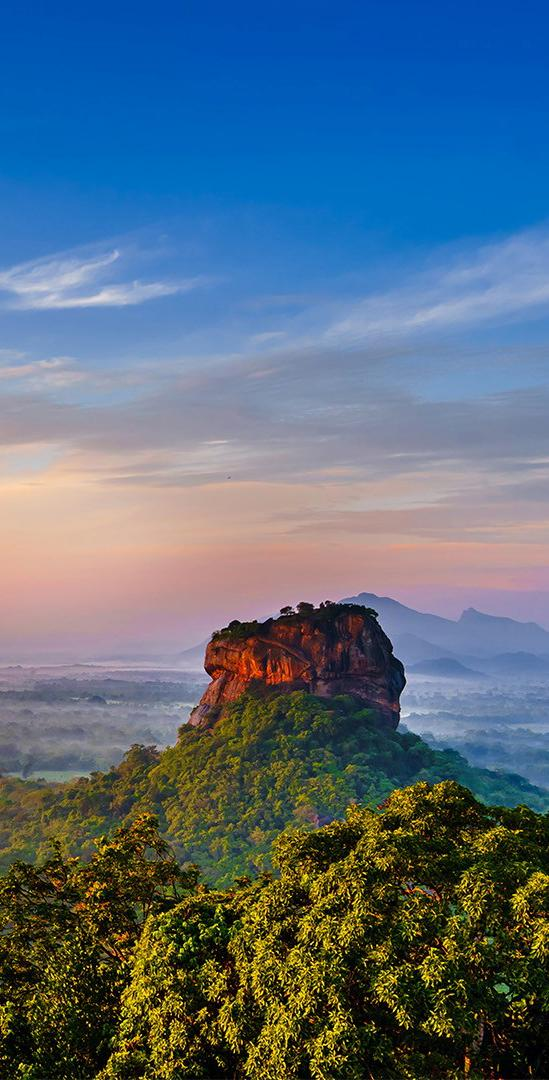
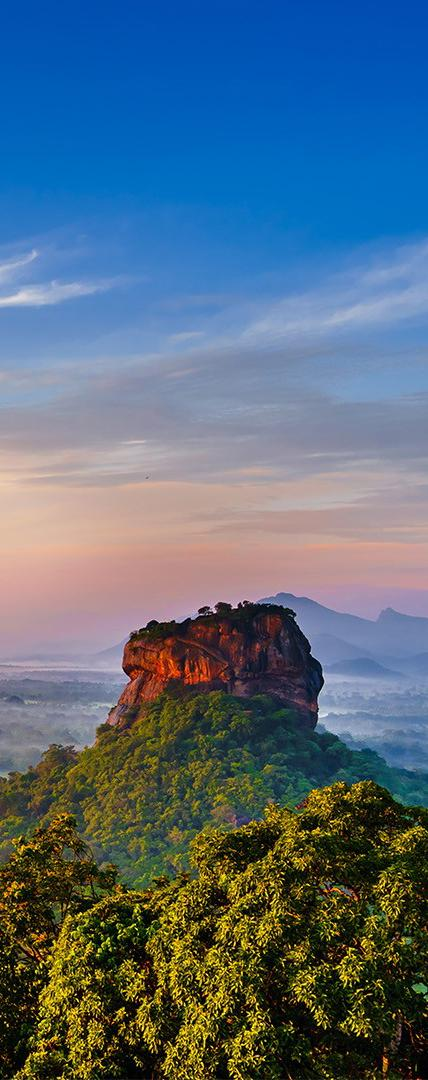
Fix the background image size in Homepage

diff --git a/src/icons/icons.tsx b/src/icons/icons.tsx
@@ -1,0 +1,60 @@
+const iconPlaces = (
+  <svg
+    xmlns="http://www.w3.org/2000/svg"
+    className="navigation__icon"
+    width={20}
+    height={20}
+    viewBox="0 0 24 24"
+    strokeWidth={1.5}
+    stroke="currentColor"
+    fill="none"
+    strokeLinecap="round"
+    strokeLinejoin="round"
+  >
+    <path stroke="none" d="M0 0h24v24H0z" fill="none"></path>
+    <path d="M9 11a3 3 0 1 0 6 0a3 3 0 0 0 -6 0"></path>
+    <path d="M17.657 16.657l-4.243 4.243a2 2 0 0 1 -2.827 0l-4.244 -4.243a8 8 0 1 1 11.314 0z"></path>
+  </svg>
+);
+
+const iconNewPlace = (
+  <svg
+    xmlns="http://www.w3.org/2000/svg"
+    className="navigation__icon"
+    width={20}
+    height={20}
+    viewBox="0 0 24 24"
+    strokeWidth={1.5}
+    stroke="currentColor"
+    fill="none"
+    strokeLinecap="round"
+    strokeLinejoin="round"
+  >
+    <path stroke="none" d="M0 0h24v24H0z" fill="none"></path>
+    <path d="M3 7l6 -3l6 3l6 -3v13l-6 3l-6 -3l-6 3v-13"></path>
+    <path d="M9 4v13"></path>
+    <path d="M15 7v13"></path>
+  </svg>
+);
+
+const iconLogout = (
+  <svg
+    xmlns="http://www.w3.org/2000/svg"
+    className="navigation__icon"
+    width={20}
+    height={20}
+    viewBox="0 0 24 24"
+    strokeWidth={1.5}
+    stroke="currentColor"
+    fill="none"
+    strokeLinecap="round"
+    strokeLinejoin="round"
+  >
+    <path stroke="none" d="M0 0h24v24H0z" fill="none"></path>
+    <path d="M14 8v-2a2 2 0 0 0 -2 -2h-7a2 2 0 0 0 -2 2v12a2 2 0 0 0 2 2h7a2 2 0 0 0 2 -2v-2"></path>
+    <path d="M9 12h12l-3 -3"></path>
+    <path d="M18 15l3 -3"></path>
+  </svg>
+);
+
+export { iconPlaces, iconNewPlace, iconLogout };

diff --git a/src/pages/Homepage/Homepage.tsx b/src/pages/Homepage/Homepage.tsx
@@ -53,7 +53,6 @@ const Homepage = (): React.ReactElement => {
           srcSet="/img/background-image.jpg"
           width={300}
           height={400}
-          loading="eager"
         />
       </picture>
     </div>
